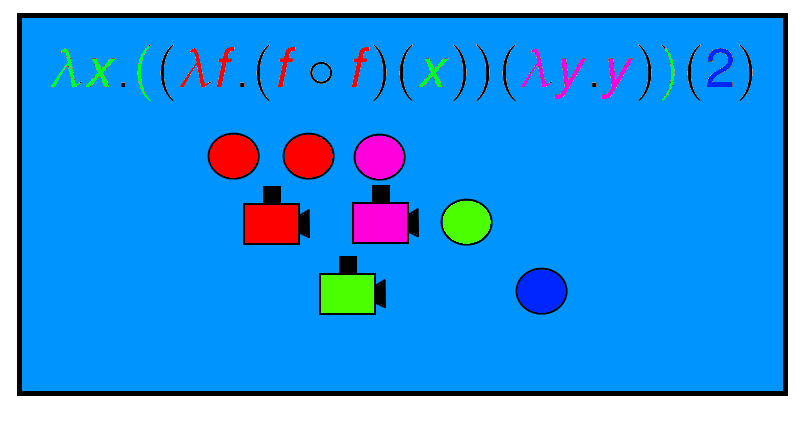
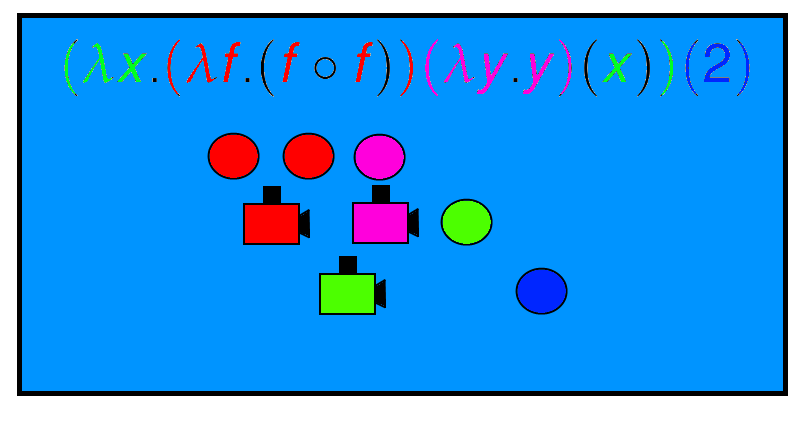
Folien aktualisiert
Aktualisieren der Bilder mit Funktion darauf
Korrektur der Klammerung in den einzelenen Folien
Korrektur der Rheinfolge "[foo <- bar]" kommt immer an die stelle an der
die klammer stand/steht in der die einzusetzenden  Elemente sind.

Changed region(s): [[0.0625, 0.0872, 0.9688, 0.2327]]

diff --git a/pse-1/presentation/main.tex b/pse-1/presentation/main.tex
@@ -149,7 +149,8 @@
 	%\frametitle{Auswertung des $\lambda$-Ausdrucks}
 	\begin{columns}[T]
 		\begin{column}[T]{5cm} 
-		     \[(\lambda f.(f \circ f)(\lambda y.y)(x))[x \leftarrow 2]\]
+		     \[(\lambda f.(f \circ f))(\lambda y.y)(x)
+		     [x \leftarrow 2]\]
 		\end{column}
 		\begin{column}[T]{5cm}
 			
@@ -163,7 +164,7 @@
 	%\frametitle{Auswertung des $\lambda$-Ausdrucks}
 	\begin{columns}[T]
 		\begin{column}[T]{5cm} 
-			\[(\lambda f.(f \circ f)(\lambda y.y)(x))[x \leftarrow 2]\]
+			\[(\lambda f.(f \circ f))(\lambda y.y)(x)[x \leftarrow 2]\]
 		\end{column}
 		\begin{column}[T]{5cm}
 			
@@ -177,7 +178,7 @@
 \begin{frame}{Auswertung des $\lambda$-Ausdrucks}
 		\begin{columns}[T]
 			\begin{column}[T]{5cm} 
-				\[(\lambda f.(f \circ f)(\lambda y.y)(2))\]
+				\[(\lambda f.(f \circ f))(\lambda y.y)(2)\]
 			\end{column}
 			\begin{column}[T]{5cm}
 				%Bild von zweitem Schritt
@@ -190,7 +191,7 @@
 \begin{frame}{Auswertung des $\lambda$-Ausdrucks}
 	\begin{columns}[T]
 		\begin{column}[T]{5cm} 
-			\[((f \circ f)(2))[f \leftarrow \lambda y.y]\]
+			\[(f \circ f)[f \leftarrow \lambda y.y](2)\]
 		\end{column}
 		\begin{column}[T]{5cm}
 			%Bild von drittem Schritt
@@ -202,7 +203,7 @@
 \begin{frame}{Auswertung des $\lambda$-Ausdrucks}
 	\begin{columns}[T]
 		\begin{column}[T]{5cm} 
-			\[((f \circ f)(2))[f \leftarrow \lambda y.y]\]
+			\[(f \circ f)[f \leftarrow \lambda y.y](2)\]
 		\end{column}
 		\begin{column}[T]{5cm}
 			%Bild von drittem Schritt
@@ -229,7 +230,7 @@
 	%\frametitle{Auswertung des $\lambda$-Ausdrucks}
 	\begin{columns}[T]
 		\begin{column}[T]{5cm} 
-			\[(\lambda y.y)(2)[y \leftarrow (\lambda y.y)]\]
+			\[(y[y \leftarrow (\lambda y.y)])(2)\]
 		\end{column}
 		\begin{column}[T]{5cm}
 			%Bild von fünftem Schritt
@@ -242,7 +243,7 @@
 	%\frametitle{Auswertung des $\lambda$-Ausdrucks}
 	\begin{columns}[T]
 		\begin{column}[T]{5cm} 
-			\[(\lambda y.y)(2)[y \leftarrow (\lambda y.y)]\]
+			\[(y[y \leftarrow (\lambda y.y)])(2)\]
 		\end{column}
 		\begin{column}[T]{5cm}
 			%Bild von fünftem Schritt
